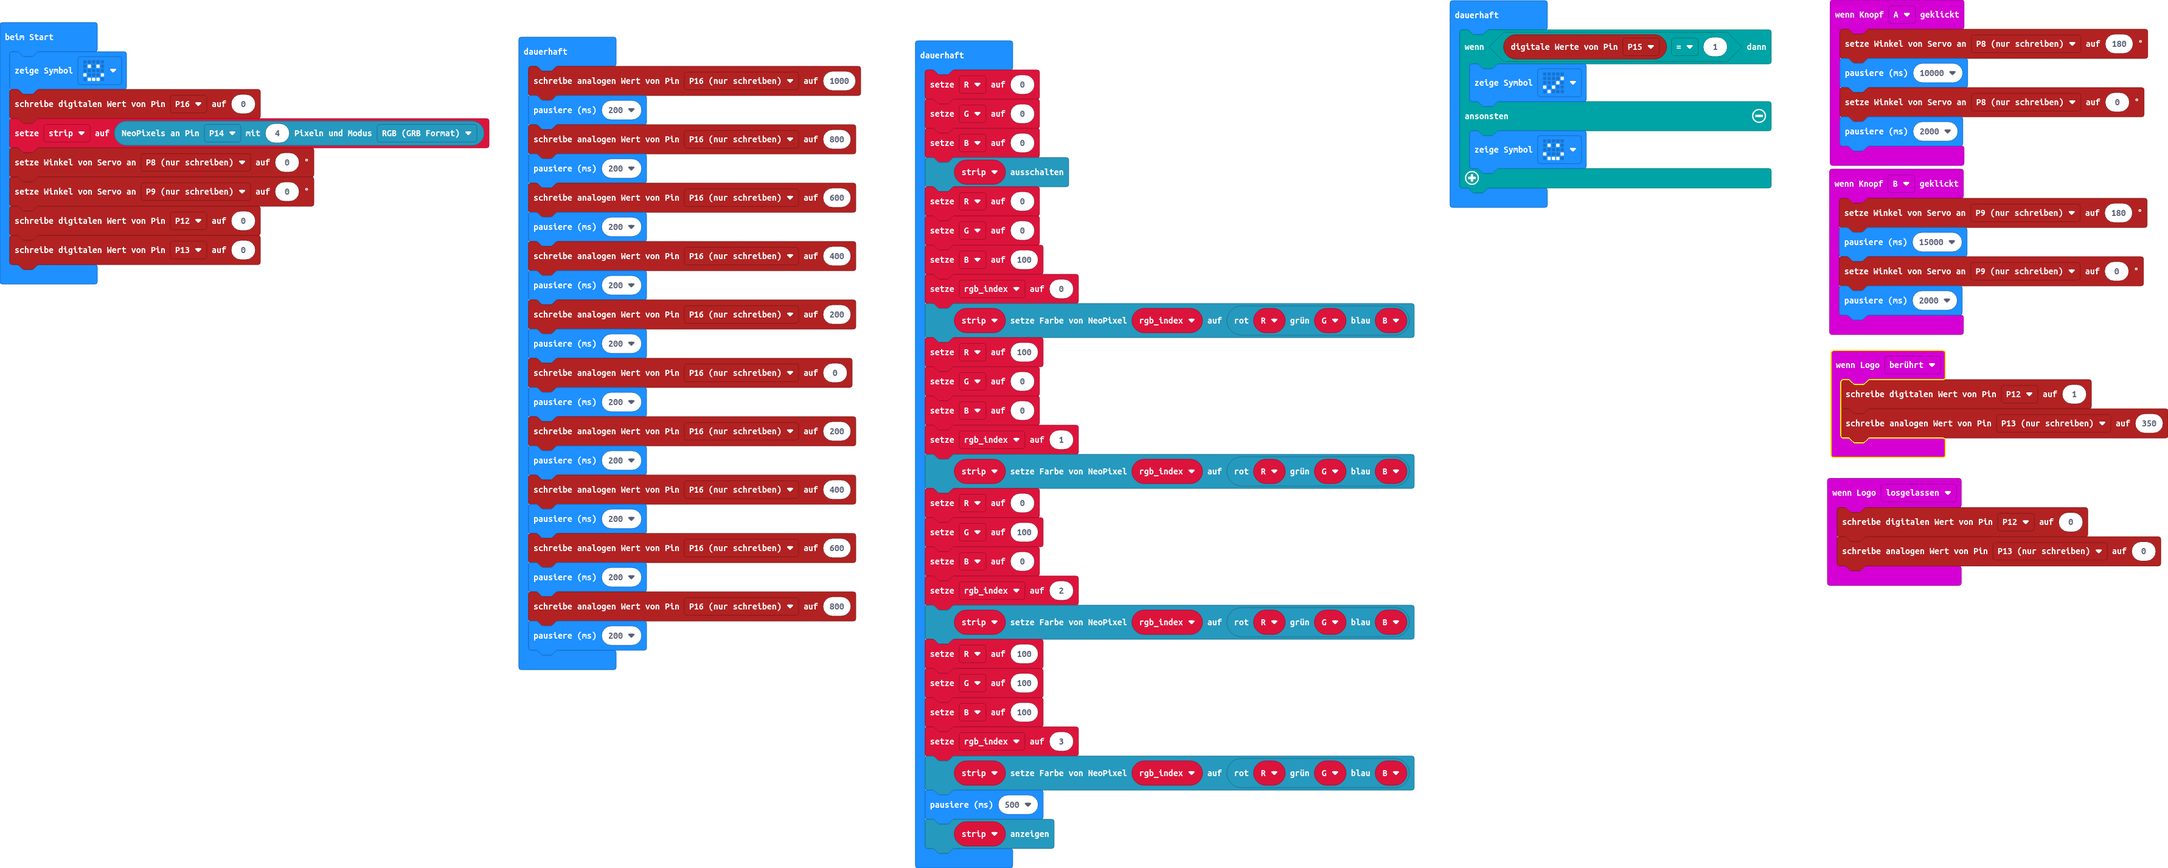
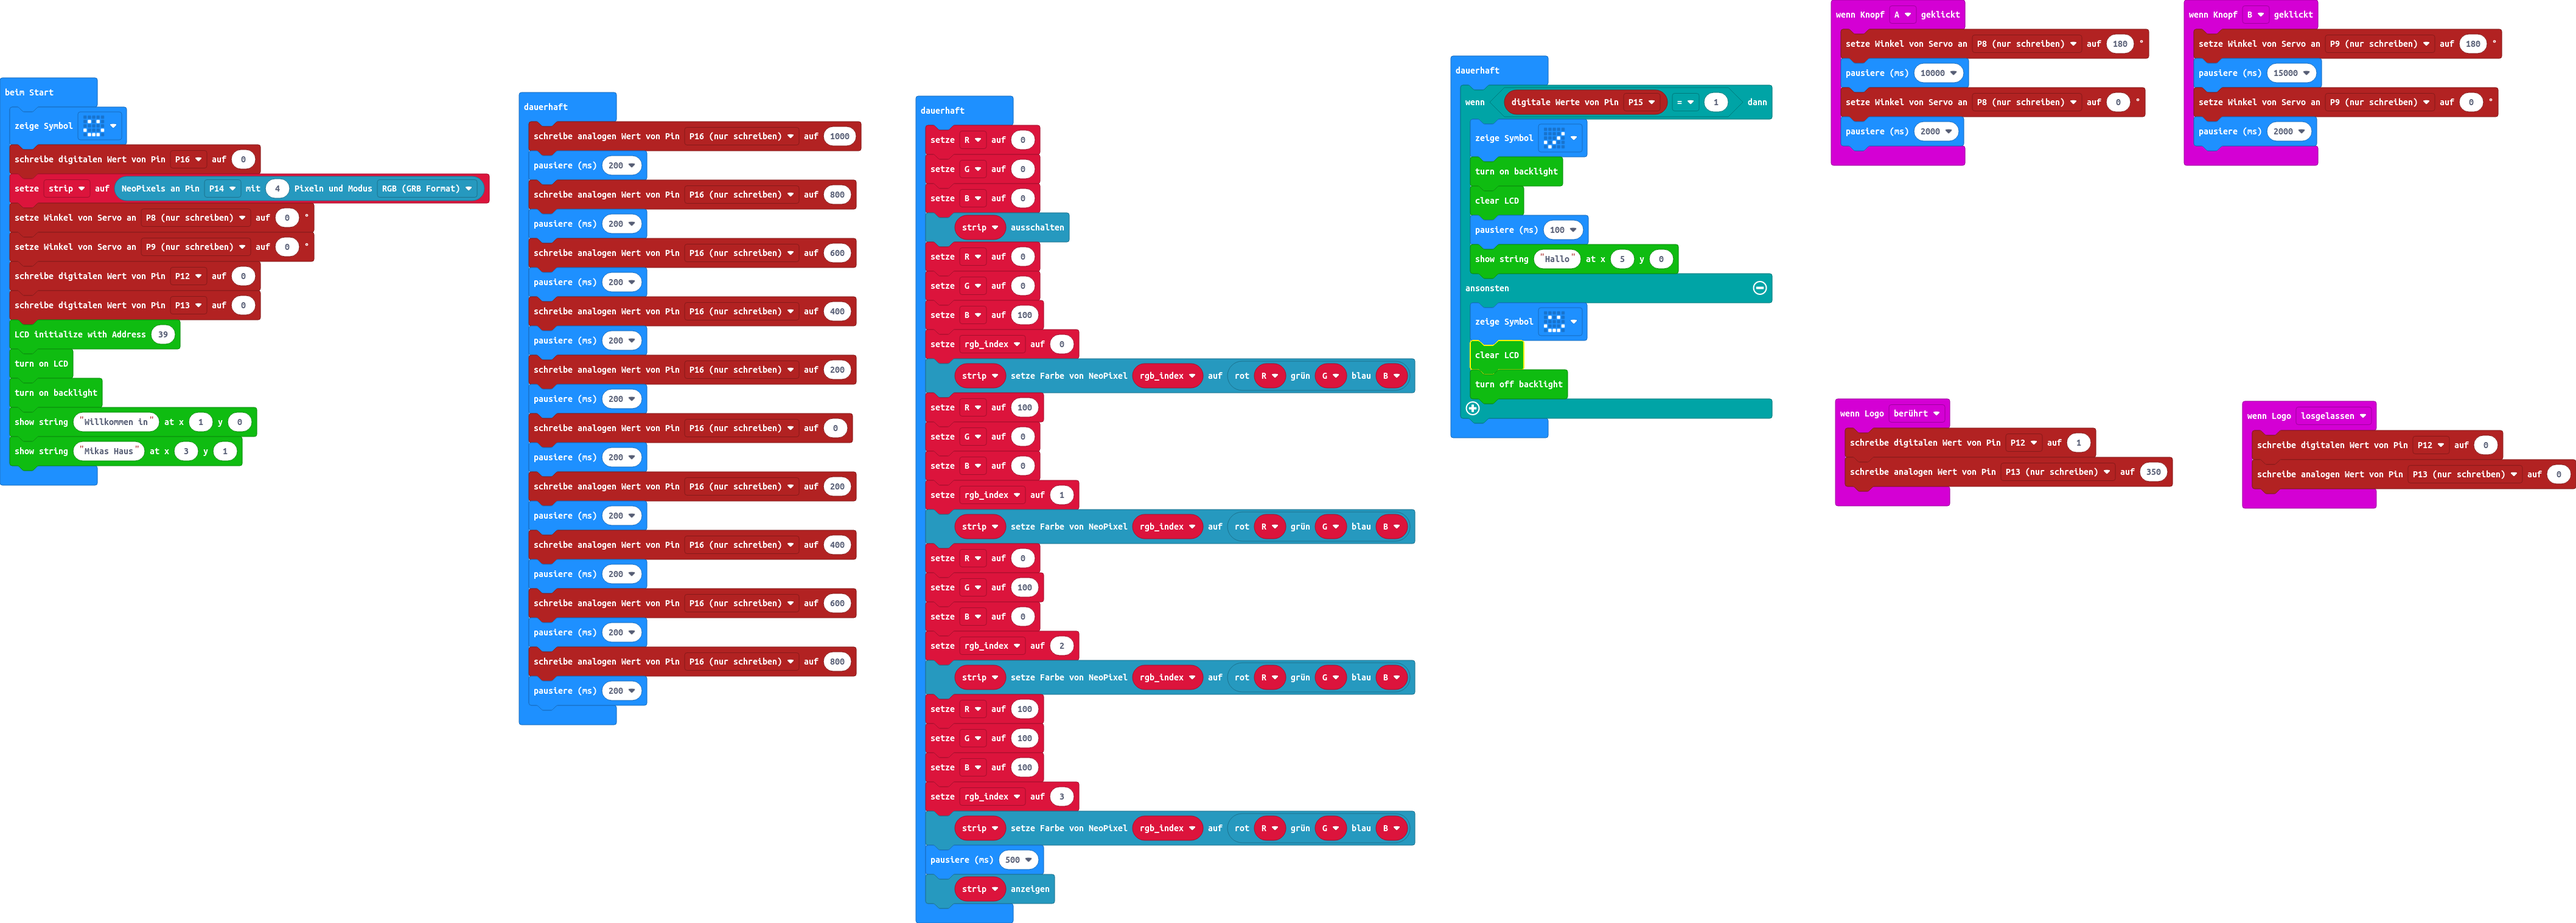
LCD Display programmiert

diff --git a/main.ts b/main.ts
@@ -29,6 +29,11 @@ pins.servoWritePin(AnalogPin.P8, 0)
 pins.servoWritePin(AnalogPin.P9, 0)
 pins.digitalWritePin(DigitalPin.P12, 0)
 pins.digitalWritePin(DigitalPin.P13, 0)
+I2C_LCD1602.LcdInit(39)
+I2C_LCD1602.on()
+I2C_LCD1602.BacklightOn()
+I2C_LCD1602.ShowString("Willkommen in", 1, 0)
+I2C_LCD1602.ShowString("Mikas Haus", 3, 1)
 basic.forever(function () {
     pins.analogWritePin(AnalogPin.P16, 1000)
     basic.pause(200)
@@ -54,8 +59,14 @@ basic.forever(function () {
 basic.forever(function () {
     if (pins.digitalReadPin(DigitalPin.P15) == 1) {
         basic.showIcon(IconNames.Yes)
+        I2C_LCD1602.BacklightOn()
+        I2C_LCD1602.clear()
+        basic.pause(100)
+        I2C_LCD1602.ShowString("Hallo", 5, 0)
     } else {
         basic.showIcon(IconNames.Happy)
+        I2C_LCD1602.clear()
+        I2C_LCD1602.BacklightOff()
     }
 })
 basic.forever(function () {
